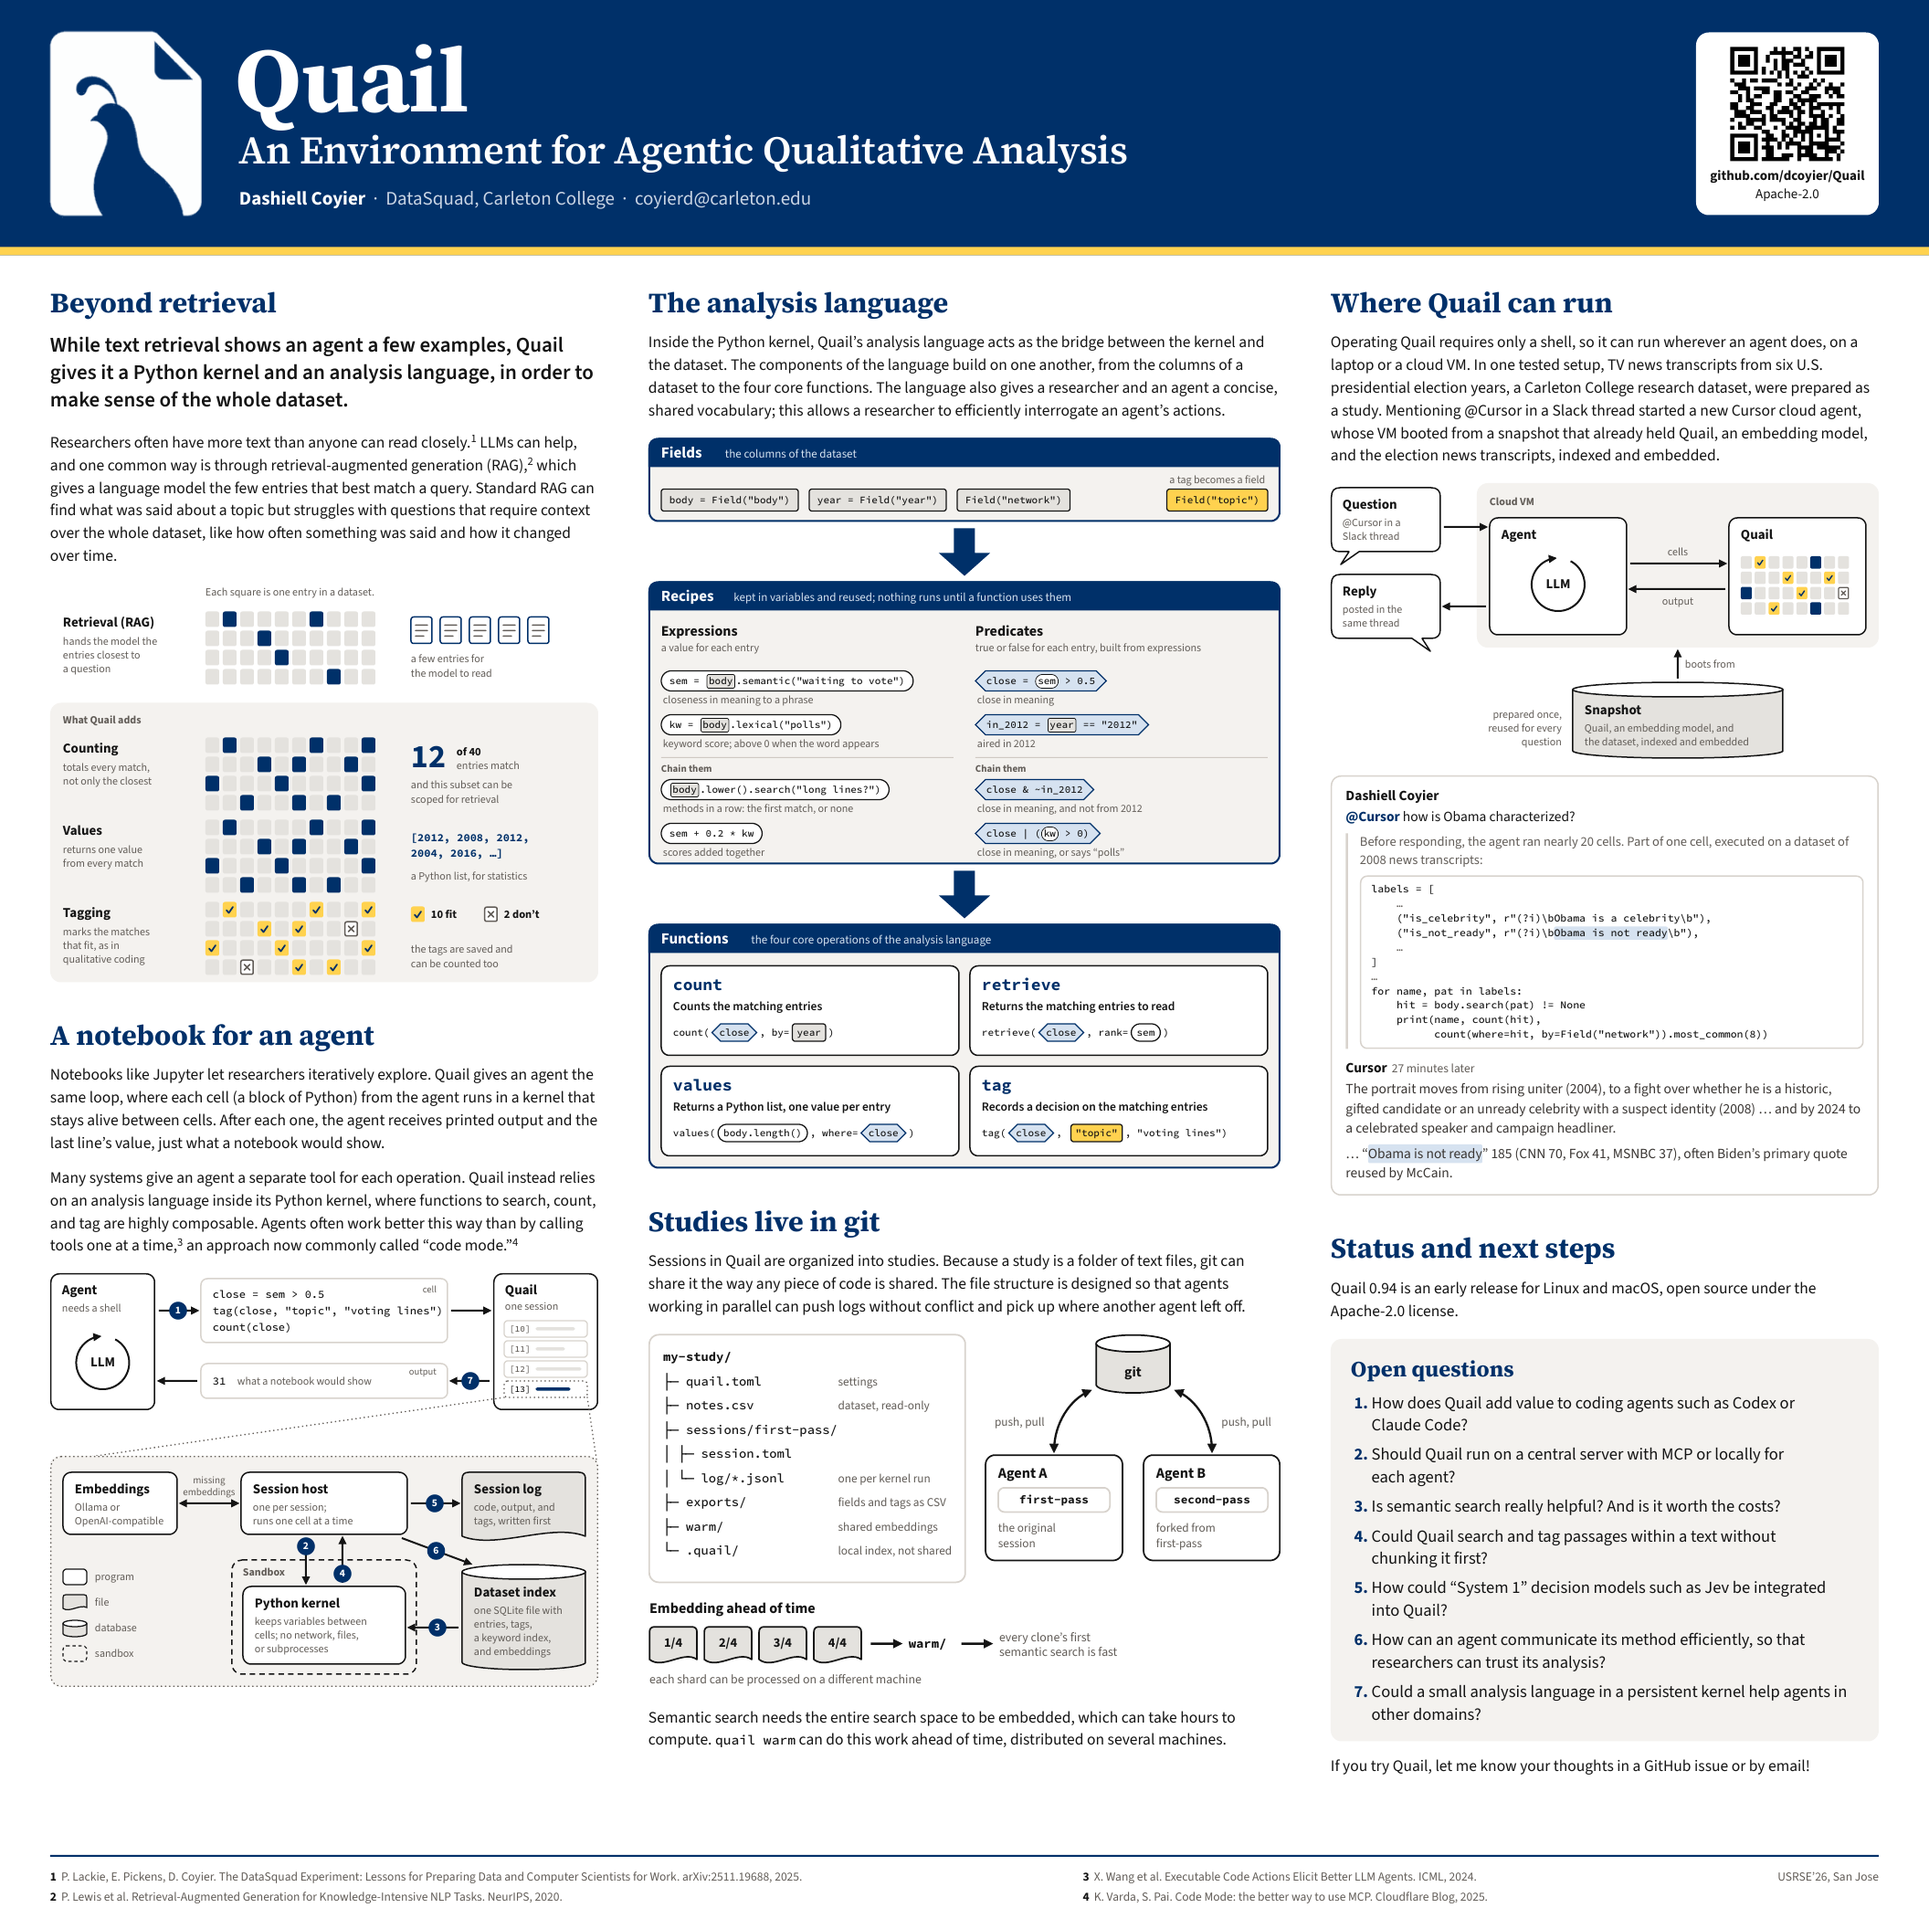
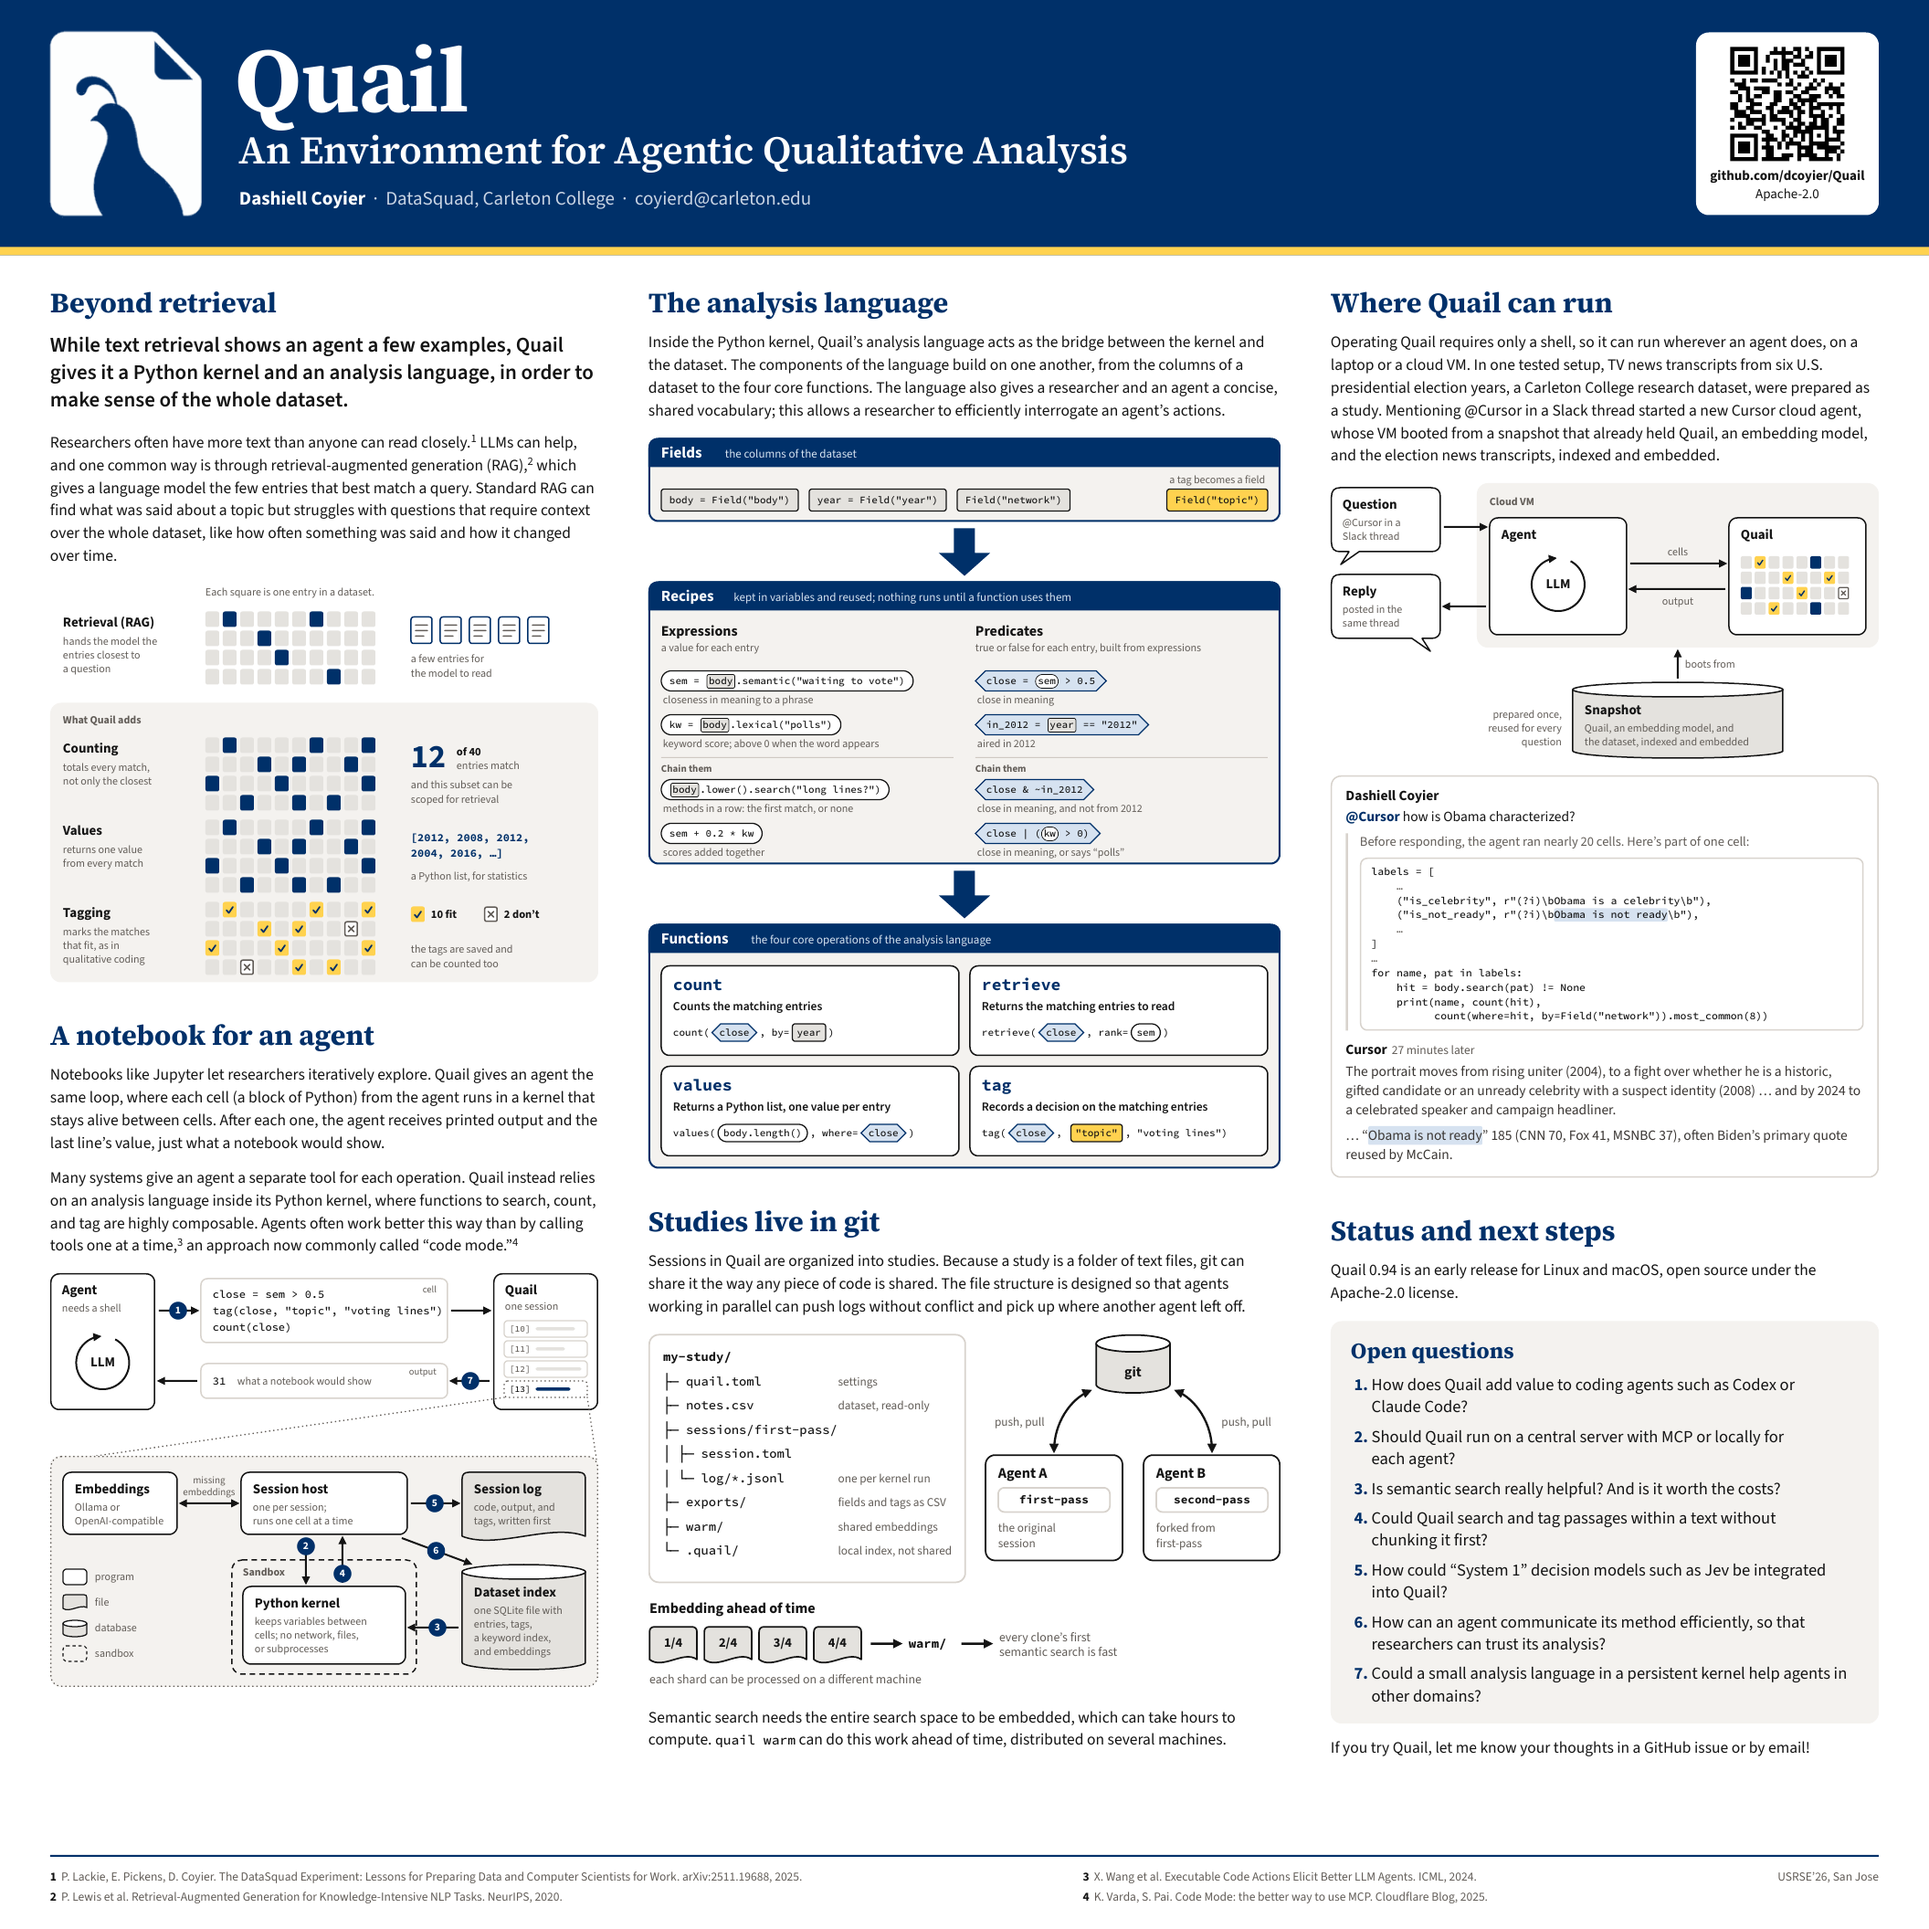
Shorten the lead-in to the Slack code excerpt
Claude-Session: https://claude.ai/code/session_01ChZ8DmmKvsKSV4JFVieZLU

Changed region(s): [[0.6875, 0.4375, 0.9688, 0.9375]]

diff --git a/poster/poster.html b/poster/poster.html
@@ -67,7 +67,7 @@
     <div><span class="who">Dashiell Coyier</span></div>
     <p class="q"><span class="mention">@Cursor</span> how is Obama characterized?</p>
     <div class="work">
-      <p>Before responding, the agent ran nearly 20 cells. Part of one cell, executed on a dataset of 2008 news transcripts:</p>
+      <p>Before responding, the agent ran nearly 20 cells. Here&rsquo;s part of one cell:</p>
       <div class="cell"><pre>labels = [
     <span class="el">&hellip;</span>
     ("is_celebrity", r"(?i)\bObama is a celebrity\b"),
